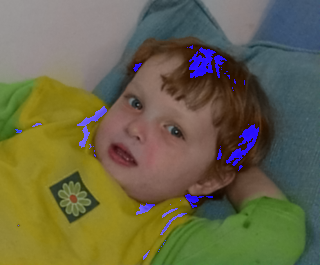
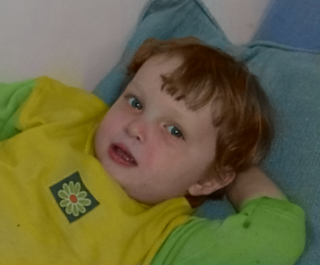
added examples and fixed colorize overflow. Now we just have to fix oversaturation where scribble marks are.

diff --git a/Code/colorize.py b/Code/colorize.py
@@ -1,7 +1,7 @@
 #!/usr/bin/env python3
 # ------------------------------------------------------------
-# colorize.py  –  Levin–Lischinski–Weiss scribble colourisation
-# Now with ε-regularisation to eliminate UV runaway artefacts.
+# colorize.py – Levin–Lischinski–Weiss scribble colourisation
+# (fixed data-range handling, cleaned duplicates, safer paths)
 # Usage:
 #   python colorize.py <gray_filename> <scribble_filename> <result_filename>
 # ------------------------------------------------------------
@@ -14,6 +14,9 @@ from scipy import sparse
 from scipy.sparse.linalg import spsolve
 
 REG_EPS = 1e-3          # neutral-chroma regulariser strength
+GRAY_DIR     = os.path.join("..", "Gray_Scale")
+SCRIBBLE_DIR = os.path.join("..", "Scribble")
+RESULT_DIR   = os.path.join("..", "Results")
 
 def pos2id(r, c, W): return r * W + c
 
@@ -24,42 +27,40 @@ def neighbours(r, c, H, W, d=2):
                 yield rr, cc
 
 class Colorizer:
-    def __init__(self, gray_filename, scribble_filename, result_filename):
-        # Build full paths
-        gray_path     = os.path.join("..", "Gray_Scale", gray_filename)
-        scribble_path = os.path.join("..", "Scribble", scribble_filename)
-        self.out_path = os.path.join("..", "Results", result_filename)
+    def __init__(self, gray_filename: str, scribble_filename: str, result_filename: str):
+        gray_path     = os.path.join(GRAY_DIR,     gray_filename)
+        scribble_path = os.path.join(SCRIBBLE_DIR, scribble_filename)
+        self.out_path = os.path.join(RESULT_DIR,   result_filename)
 
-        # Load images
-        self.rgb   = cv2.cvtColor(cv2.imread(gray_path), cv2.COLOR_BGR2RGB)
-        self.scrib = cv2.cvtColor(cv2.imread(scribble_path), cv2.COLOR_BGR2RGB)
+        # ---------- load RGB images (uint8) ----------
+        rgb_u8   = cv2.cvtColor(cv2.imread(gray_path),     cv2.COLOR_BGR2RGB)
+        scrib_u8 = cv2.cvtColor(cv2.imread(scribble_path), cv2.COLOR_BGR2RGB)
 
-        if self.rgb is None or self.scrib is None:
+        if rgb_u8 is None or scrib_u8 is None:
             raise FileNotFoundError("One of the input files could not be read.")
-
-        if self.rgb.shape != self.scrib.shape:
+        if rgb_u8.shape != scrib_u8.shape:
             raise ValueError("Gray and scribble images must be the same size.")
 
-        # Convert to YUV
-        self.yuv  = cv2.cvtColor(self.rgb, cv2.COLOR_RGB2YUV) / 255.0
-        self.syuv = cv2.cvtColor(self.scrib, cv2.COLOR_RGB2YUV) / 255.0
+        # ---------- convert to float32 in [0,1] first ----------
+        rgb_f   = rgb_u8  .astype(np.float32) / 255.0
+        scrib_f = scrib_u8.astype(np.float32) / 255.0
 
-        if self.rgb is None or self.scrib is None:
-            raise FileNotFoundError("Could not read one of the input images.")
+        # ---------- then to YUV (U,V centred on 0) ----------
+        self.yuv  = cv2.cvtColor(rgb_f,   cv2.COLOR_RGB2YUV)
+        self.syuv = cv2.cvtColor(scrib_f, cv2.COLOR_RGB2YUV)
 
-        if self.rgb.shape != self.scrib.shape:
-            raise ValueError("Gray and scribble images must be the same size.")
+        self.rgb   = rgb_u8   # keep originals for hint detection
+        self.scrib = scrib_u8
 
-        self.yuv = cv2.cvtColor(self.rgb, cv2.COLOR_RGB2YUV) / 255.0
-        self.syuv = cv2.cvtColor(self.scrib, cv2.COLOR_RGB2YUV) / 255.0
-
+    # pixel considered a “hint” if scribble differs noticeably
     def _hint(self, r, c):
         return np.any(np.abs(self.rgb[r, c] - self.scrib[r, c]) > 10)
 
     def colorize(self):
-        H, W = self.yuv.shape[:2]; N = H * W
-        A = sparse.lil_matrix((N, N), dtype=float)
-        bu = np.full(N, REG_EPS * 0.5)   # preload RHS with ε·0.5
+        H, W = self.yuv.shape[:2]
+        N    = H * W
+        A  = sparse.lil_matrix((N, N), dtype=np.float32)
+        bu = np.full(N, REG_EPS * 0.5, dtype=np.float32)
         bv = bu.copy()
 
         for r in tqdm(range(H), desc="assembling"):
@@ -67,7 +68,7 @@ class Colorizer:
                 idx = pos2id(r, c, W)
                 Y   = self.yuv[r, c, 0]
 
-                if self._hint(r, c):
+                if self._hint(r, c):                 # scribble pixel
                     A[idx, idx] = 1.0 + REG_EPS
                     bu[idx] += self.syuv[r, c, 1]
                     bv[idx] += self.syuv[r, c, 2]
@@ -78,7 +79,7 @@ class Colorizer:
                 ids = np.array([pos2id(rr, cc, W)   for rr, cc in nbr])
 
                 σ = np.std(Ys)
-                w = np.ones_like(Ys) if σ < 1e-6 else np.exp(-((Ys-Y)**2)/(2*σ**2))
+                w = np.ones_like(Ys) if σ < 1e-6 else np.exp(-((Ys - Y) ** 2) / (2 * σ ** 2))
                 w /= w.sum()
 
                 A[idx, idx] = 1.0 + REG_EPS
@@ -88,10 +89,9 @@ class Colorizer:
         U = spsolve(A, bu).reshape(H, W)
         V = spsolve(A, bv).reshape(H, W)
 
-        out = np.dstack((self.yuv[...,0], U, V))
-        rgb = cv2.cvtColor(np.clip(out, 0, 1).astype(np.float32),
-                           cv2.COLOR_YUV2RGB)
-        return (rgb*255).astype(np.uint8)
+        out_yuv = np.dstack((self.yuv[..., 0], U, V))
+        rgb_f   = cv2.cvtColor(out_yuv.astype(np.float32), cv2.COLOR_YUV2RGB)
+        return (np.clip(rgb_f, 0, 1) * 255).astype(np.uint8)
 
 # ------------------- CLI wrapper ------------------------------
 if __name__ == "__main__":
@@ -99,10 +99,9 @@ if __name__ == "__main__":
         print("Usage: python colorize.py <gray_filename> <scribble_filename> <result_filename>")
         sys.exit(1)
 
-    # hand all three filenames to the constructor
     colorizer = Colorizer(sys.argv[1], sys.argv[2], sys.argv[3])
     result    = colorizer.colorize()
 
-    # save using the same <result_filename> the user supplied
-    cv2.imwrite(sys.argv[3], cv2.cvtColor(result, cv2.COLOR_RGB2BGR))
-    print("✓ Saved", sys.argv[3])
+    os.makedirs(RESULT_DIR, exist_ok=True)
+    cv2.imwrite(colorizer.out_path, cv2.cvtColor(result, cv2.COLOR_RGB2BGR))
+    print("✓ Saved to", colorizer.out_path)
